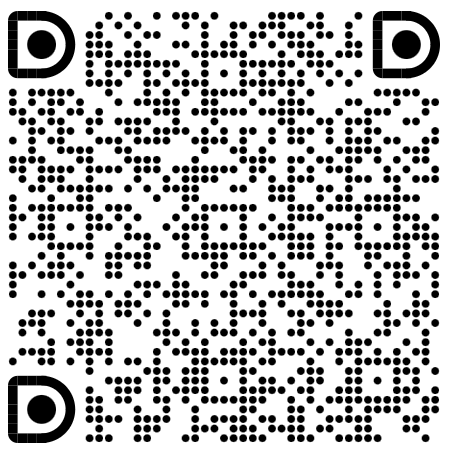
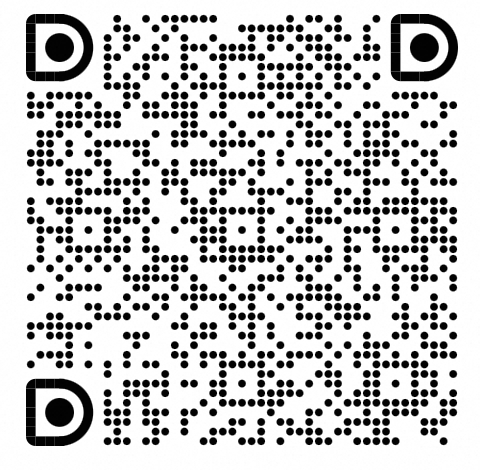
fix: -pgo cannot work with instrumentation (#550)
* fix: -pgo cannot work with instrumentation

* extra line

* update dingtalk

diff --git a/tool/util/shared.go b/tool/util/shared.go
@@ -70,14 +70,6 @@ func IsCompileCommand(line string) bool {
 			return false
 		}
 	}
-
-	// @@PGO compile command is different from normal compile command, we
-	// should skip it, otherwise the same package will be compiled twice
-	// (one for PGO and one for normal), which finally leads to the same
-	// rule being applied twice.
-	if strings.Contains(line, BuildPgoProfile) {
-		return false
-	}
 	return true
 }
 

diff --git a/test/flags_tests.go b/test/flags_tests.go
@@ -33,7 +33,7 @@ func TestFlags(t *testing.T) {
 	ExpectStderrContains(t, "Stack:")
 
 	RunSet(t, "-verbose")
-	RunGoBuild(t, "go", "build", `-ldflags=-X main.Placeholder=replaced`)
+	RunGoBuild(t, "go", "build", `-ldflags=-X main.Placeholder=replaced -pgo=default.pgo`)
 	_, stderr := RunApp(t, AppName)
 	ExpectContains(t, stderr, "placeholder:replaced")
 

diff --git a/docs/README_CN.md b/docs/README_CN.md
@@ -1,10 +1,9 @@
 ![](images/anim-logo.svg)
 
-[![](https://shields.io/badge/Docs-English-blue?logo=Read%20The%20Docs)](../README.md) &nbsp;
-[![](https://shields.io/badge/Readme-中文-blue?logo=Read%20The%20Docs)](./README_CN.md)  &nbsp;
-[![codecov](https://codecov.io/gh/alibaba/loongsuite-go-agent/branch/main/graph/badge.svg)](https://codecov.io/gh/alibaba/loongsuite-go-agent)  &nbsp;
-[![](https://shields.io/badge/Aliyun-Commercial-orange?logo=alibabacloud)](https://help.aliyun.com/zh/arms/application-monitoring/getting-started/monitoring-the-golang-applications) &nbsp;
-[![](https://img.shields.io/badge/New-Adopter-orange?logo=githubsponsors)](https://github.com/alibaba/loongsuite-go-agent/issues/225) &nbsp;
+[![](https://shields.io/badge/-中文文档-black?logo=dolphin)](./docs/README_CN.md)  &nbsp;
+[![](https://shields.io/badge/-阿里云商业版-black?logo=alibabacloud)](https://help.aliyun.com/zh/arms/application-monitoring/getting-started/monitoring-the-golang-applications) &nbsp;
+[![](https://shields.io/badge/-Loongsuite_Java-black?logo=alibabacloud)](https://github.com/alibaba/loongsuite-java-agent)  &nbsp;
+[![](https://shields.io/badge/-Loongsuite_Python-black?logo=alibabacloud)](https://github.com/alibaba/loongsuite-python-agent)  &nbsp;
 
 **Loongsuite Go Agent** 为希望利用 OpenTelemetry 实现有效可观察性的 Golang 应用程序提供了一个自动解决方案。目标应用程序无需更改代码，插装是在编译时完成的。只需在 `go build` 前添加 `otel` 前缀即可开始 :rocket:
 
@@ -14,7 +13,7 @@
 
 | Linux AMD64 | Linux ARM64 | MacOS AMD64 | MacOS ARM64 | Windows AMD64 |
 | -- | -- | -- | -- | -- |
-| [![Download](https://shields.io/badge/-Download-black?logo=winamp)](https://github.com/alibaba/loongsuite-go-agent/releases/latest/download/otel-linux-amd64) | [![Download](https://shields.io/badge/-Download-black?logo=winamp)](https://github.com/alibaba/loongsuite-go-agent/releases/latest/download/otel-linux-arm64) | [![Download](https://shields.io/badge/-Download-black?logo=winamp)](https://github.com/alibaba/loongsuite-go-agent/releases/latest/download/otel-darwin-amd64) | [![Download](https://shields.io/badge/-Download-black?logo=winamp)](https://github.com/alibaba/loongsuite-go-agent/releases/latest/download/otel-darwin-arm64) | [![Download](https://shields.io/badge/-Download-black?logo=winamp)](https://github.com/alibaba/loongsuite-go-agent/releases/latest/download/otel-windows-amd64.exe) | 
+| [![Download](https://shields.io/badge/-Download-black?logo=winamp)](https://github.com/alibaba/loongsuite-go-agent/releases/latest/download/otel-linux-amd64) | [![Download](https://shields.io/badge/-Download-black?logo=winamp)](https://github.com/alibaba/loongsuite-go-agent/releases/latest/download/otel-linux-arm64) | [![Download](https://shields.io/badge/-Download-black?logo=winamp)](https://github.com/alibaba/loongsuite-go-agent/releases/latest/download/otel-darwin-amd64) | [![Download](https://shields.io/badge/-Download-black?logo=winamp)](https://github.com/alibaba/loongsuite-go-agent/releases/latest/download/otel-darwin-amd64) | [![Download](https://shields.io/badge/-Download-black?logo=winamp)](https://github.com/alibaba/loongsuite-go-agent/releases/latest/download/otel-windows-amd64.exe) | 
 
 **这是推荐的安装方式。**
 
@@ -115,15 +114,9 @@ $ otel go build -gcflags="-m" cmd/app
 
 # 社区
 
-我们期待您的反馈和建议。您可以加入我们的 [钉钉群组](https://qr.dingtalk.com/action/joingroup?code=v1,k1,GyDX5fUTYnJ0En8MrVbHBYTGUcPXJ/NdsmLODGibd0w=&_dt_no_comment=1&origin=11? )
+我们期待您的反馈和建议。您可以加入我们的 [钉钉群组](https://qr.dingtalk.com/action/joingroup?code=v1,k1,PBuICMTDvdh0En8MrVbHBYTGUcPXJ/NdT6JKCZ8CG+w=&_dt_no_comment=1&origin=11)
 与我们交流。
 
 | 钉钉群组 | Star 历史 |
 | :---: | :---: |
 | <img src="images/dingtalk.png" height="200"> | <img src="https://api.star-history.com/svg?repos=alibaba/loongsuite-go-agent&type=Date" height="200"> |
-
-我们衷心感谢以下为该项目做出宝贵贡献的贡献者：
-
-<a href="https://github.com/alibaba/loongsuite-go-agent/graphs/contributors">
-  <img alt="contributors" src="https://contrib.rocks/image?repo=alibaba/loongsuite-go-agent" height="150"/>
-</a>

diff --git a/README.md b/README.md
@@ -1,7 +1,9 @@
-![](docs/anim-logo.svg)
+![](docs/images/anim-logo.svg)
 
-[![](https://shields.io/badge/Readme-中文-blue?logo=Read%20The%20Docs)](./docs/README_CN.md)  &nbsp;
-[![](https://shields.io/badge/Aliyun-Commercial-orange?logo=alibabacloud)](https://help.aliyun.com/zh/arms/application-monitoring/getting-started/monitoring-the-golang-applications) &nbsp;
+[![](https://shields.io/badge/-中文文档-black?logo=dolphin)](./docs/README_CN.md)  &nbsp;
+[![](https://shields.io/badge/-阿里云商业版-black?logo=alibabacloud)](https://help.aliyun.com/zh/arms/application-monitoring/getting-started/monitoring-the-golang-applications) &nbsp;
+[![](https://shields.io/badge/-Loongsuite_Java-black?logo=alibabacloud)](https://github.com/alibaba/loongsuite-java-agent)  &nbsp;
+[![](https://shields.io/badge/-Loongsuite_Python-black?logo=alibabacloud)](https://github.com/alibaba/loongsuite-python-agent)  &nbsp;
 
 **Loongsuite Go Agent** provides an automatic solution for Golang applications that want to
 leverage OpenTelemetry to enable effective observability. No code changes are
@@ -115,15 +117,9 @@ We are progressively open-sourcing the libraries we have supported, and your con
 # Community
 
 We are looking forward to your feedback and suggestions. You can join
-our [DingTalk group](https://qr.dingtalk.com/action/joingroup?code=v1,k1,GyDX5fUTYnJ0En8MrVbHBYTGUcPXJ/NdsmLODGibd0w=&_dt_no_comment=1&origin=11? )
+our [DingTalk group](https://qr.dingtalk.com/action/joingroup?code=v1,k1,PBuICMTDvdh0En8MrVbHBYTGUcPXJ/NdT6JKCZ8CG+w=&_dt_no_comment=1&origin=11)
 to engage with us.
 
 | DingTalk | Star History |
 | :---: | :---: |
 | <img src="docs/images/dingtalk.png" height="200"> | <img src="https://api.star-history.com/svg?repos=alibaba/loongsuite-go-agent&type=Date" height="200"> |
-
-We would thankfully acknowledge the following contributors for their valuable contributions to this project:
-
-<a href="https://github.com/alibaba/loongsuite-go-agent/graphs/contributors">
-  <img alt="contributors" src="https://contrib.rocks/image?repo=alibaba/loongsuite-go-agent" height="150"/>
-</a>
